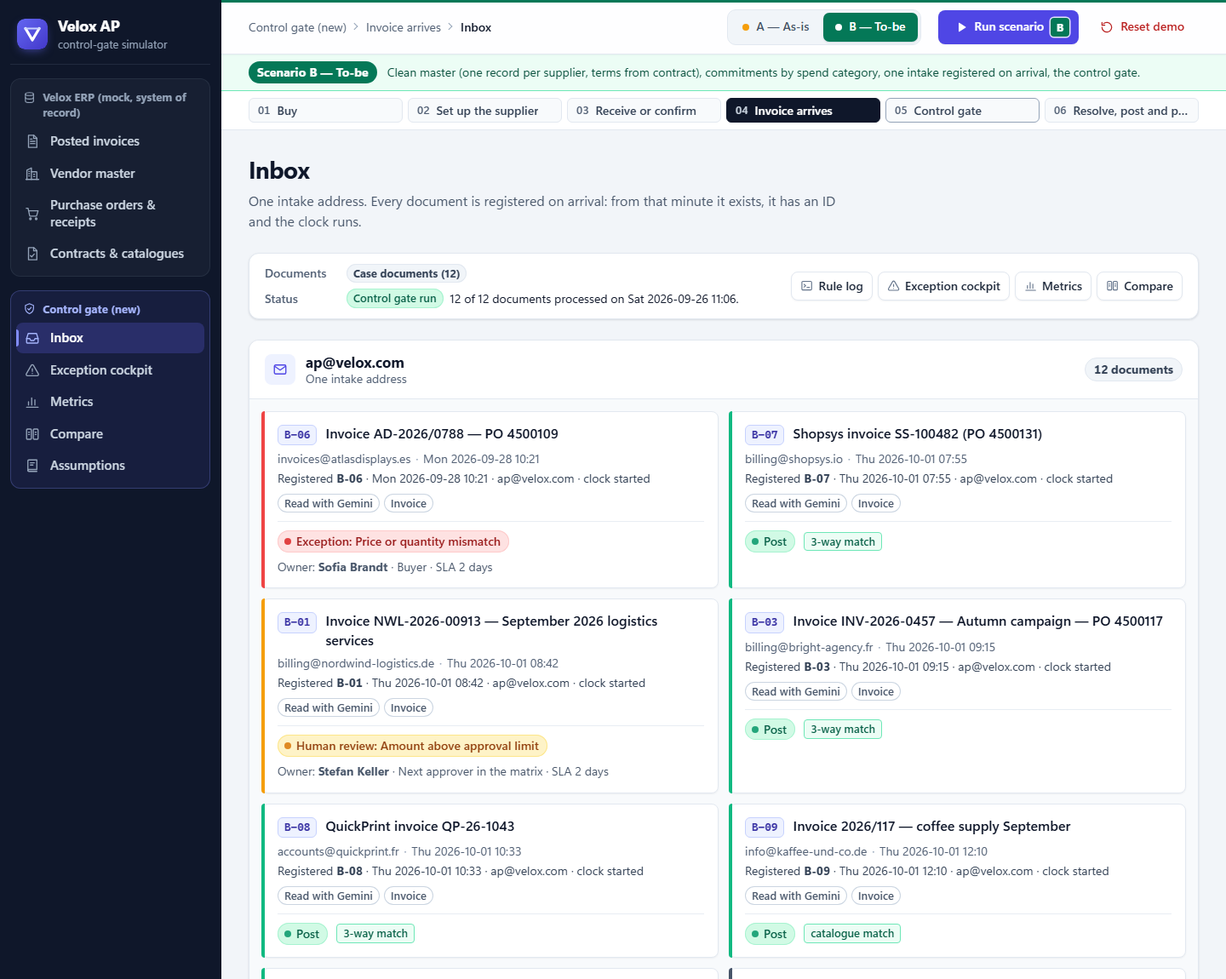
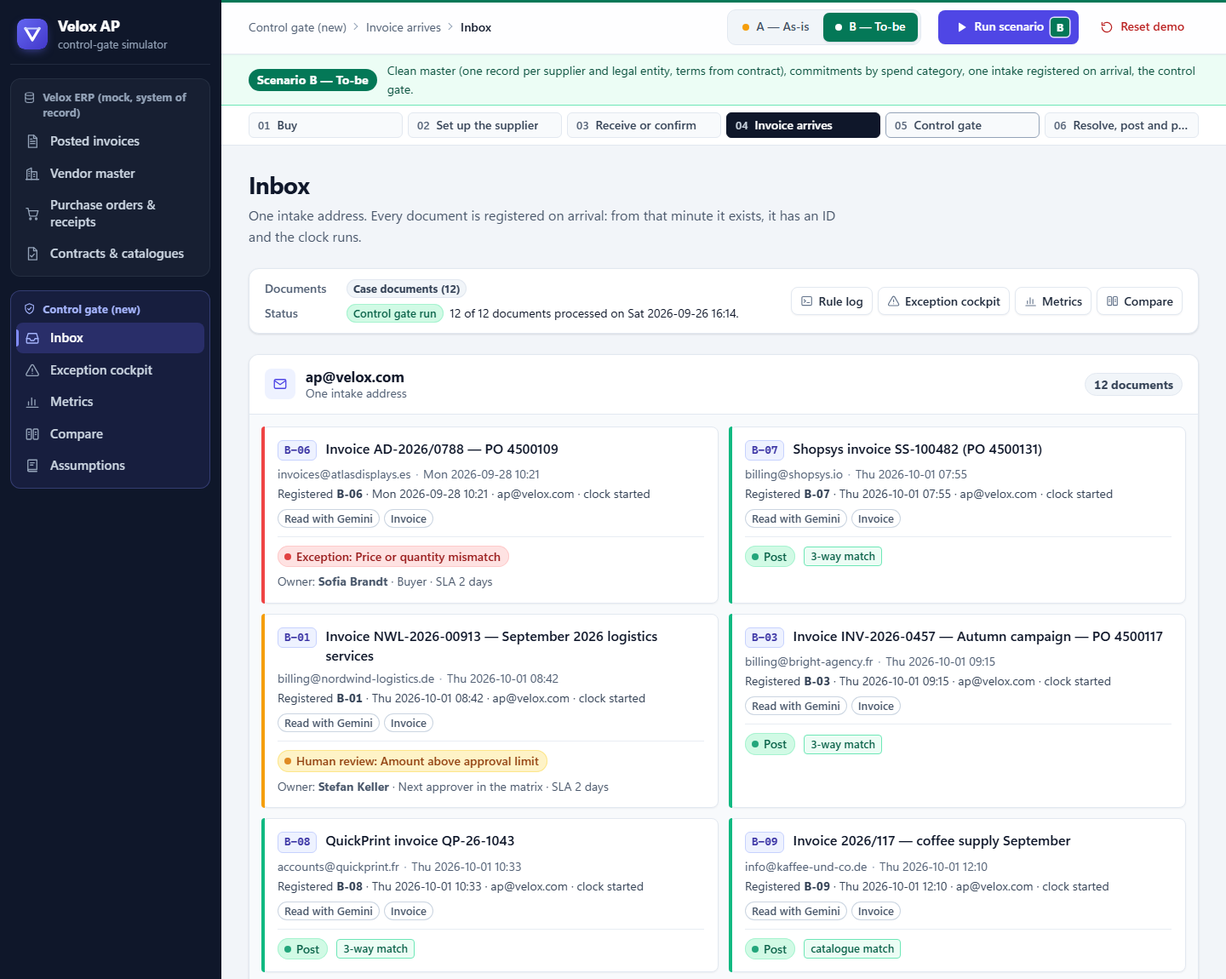
Demo script: what the demo shows and does not show; live-demo fixes
- DEMO.md: a framing line, a table from each demo moment to the root causes and slides of the deck,
  what the demo does not show, and answers to the questions a panel is likely to ask. Checked by an
  adversarial review against the deck text and the app; its corrections are applied (first-pass
  misses are B-02, B-05 and B-06; cycle-time and as-is answers; the agent is phase 3).
- Invoice page: before Run the control gate, a document whose reading is saved says so instead of
  asking for an API key. The draft box hides "Draft again" without a key, so a cached draft is never
  replaced by an error in front of an audience.
- Scenario banner: "one record per supplier and legal entity", matching the 1.17 on screen.
- CHECKPOINT_V2 and ASSUMPTIONS: the same corrections, the two deliberate differences from A6
  (inactive records counted, cycle time from arrival) and the A5 differences; the AI quick-fix is
  slide 6. Screenshots retaken.

Tests: 1417 passed.

diff --git a/app/templates/_draft.html b/app/templates/_draft.html
@@ -5,11 +5,13 @@
   <p class="draft-label">{{ draft_label }}</p>
   <blockquote class="draft-text">{{ draft.text }}</blockquote>
   <p class="draft-meta muted small"><code>{{ draft.model }}</code> · {{ 'from cache' if draft.from_cache else 'new draft' }}</p>
+  {% if can_redraft %}
   <form method="post" action="/invoice/{{ doc.doc_id }}/draft?force=1"
         hx-post="/invoice/{{ doc.doc_id }}/draft?force=1" hx-target="#draft-box" hx-swap="outerHTML"
         hx-disabled-elt="find button">
     <button type="submit" class="secondary small-button">{{ ic.icon('sparkle') }}Draft again</button>
   </form>
+  {% endif %}
   {% else %}
   <p class="flash flash-warn draft-unavailable" role="status"><span><strong>No draft.</strong> {{ draft_error }}</span></p>
   <form method="post" action="/invoice/{{ doc.doc_id }}/draft"

diff --git a/app/main.py b/app/main.py
@@ -55,8 +55,8 @@ SCENARIO_COOKIE = "scenario"
 FLASH_COOKIE = "flash"
 SCENARIO_SUMMARY = {
     "asis": "Duplicate vendor records, no PO discipline, two mailboxes, no control gate.",
-    "tobe": "Clean master (one record per supplier, terms from contract), commitments by spend category, one intake "
-            "registered on arrival, the control gate.",
+    "tobe": "Clean master (one record per supplier and legal entity, terms from contract), commitments by spend "
+            "category, one intake registered on arrival, the control gate.",
 }
 
 # Left navigation: two visibly separate groups (brief section 11). The split is the architecture
@@ -895,6 +895,8 @@ def no_extraction_reason(doc: Optional[InboundDocument] = None) -> str:
                 "text shown on this page.")
     if doc is not None and doc.scenario == "asis":
         return "Processing this document keys its fields (scenario A has no model: AP types them)."
+    if doc is not None and reading_saved(doc):  # the demo's next email: its reading is in the cache already
+        return "Run the control gate: it reads the document first, from the saved reading (no model call now)."
     if config.EXTRACTOR == "fixture":
         return "Fixture mode is on (EXTRACTOR=fixture) and there is no ground-truth fixture for this PDF."
     if not config.gemini_configured():
@@ -903,6 +905,15 @@ def no_extraction_reason(doc: Optional[InboundDocument] = None) -> str:
                 f"{config.gemini_missing_setting()} must be set in .env (then restart the app, or run make extract).")
     return ("Running the control gate reads it first: from the extraction cache when this file was read before, "
             "else with one Gemini API call.")
+
+
+def reading_saved(doc: InboundDocument) -> bool:
+    """A reading of this file exists without calling the API: its cached Gemini reading, or (EXTRACTOR=fixture) its
+    ground-truth fixture."""
+    if config.EXTRACTOR == "fixture":
+        path = resolve_document_file(doc.file_path)
+        return path is not None and extract.fixture_path(path).exists()
+    return bool(doc.file_hash) and extract.cache_path(doc.file_hash).exists()
 
 
 def is_ubl_extraction(ex: Any) -> bool:
@@ -1128,7 +1139,9 @@ def draft_message(doc_id: str, request: Request, force: int = 0,
         error = f"The draft could not be produced: {exc}"
     if request.headers.get("HX-Request"):
         return templates.TemplateResponse(request, "_draft.html", {
-            "doc": doc, "draft": draft, "draft_error": error, "draft_label": drafts.DRAFT_LABEL})
+            "doc": doc, "draft": draft, "draft_error": error, "draft_label": drafts.DRAFT_LABEL,
+            # a new draft needs the API: without a key, "Draft again" would only replace the cached text with an error
+            "can_redraft": config.gemini_configured()})
     if draft:
         return redirect(f"/invoice/{doc_id}", ("info", f"{drafts.DRAFT_LABEL}: {draft.text}"))
     return redirect(f"/invoice/{doc_id}", ("warn", f"No draft: {error}"))

diff --git a/tests/test_app.py b/tests/test_app.py
@@ -728,6 +728,9 @@ def test_receive_next_email_registers_without_running_the_gate(client, session):
     # its page offers the gate; running it reads the cache (or fixture) only and shows the outcome
     page = client.get(f"/invoice/{doc_id}").text
     assert "Run the control gate</button>" in page and "Not read yet." in page
+    # its reading is saved: the page never talks about API keys in front of the audience
+    assert "it reads the document first, from the saved reading (no model call now)" in page
+    assert "GEMINI_API_KEY" not in page
     r = client.post(f"/invoice/{doc_id}/rerun")
     assert r.status_code == 200 and r.url.path == f"/invoice/{doc_id}"
     text = squash(page_text(r.text))
@@ -1665,9 +1668,12 @@ def test_draft_text_is_shown_under_the_exact_label(client, monkeypatch):
     monkeypatch.setattr(drafts, "get_draft", fake_draft)
     r = client.post("/invoice/B-06/draft?force=1", headers={"HX-Request": "true"})
     assert f'<p class="draft-label">{drafts.DRAFT_LABEL}</p>' in r.text
+    assert "Draft again" not in r.text  # no API key: a new draft would only replace the cached text with an error
+    use_gemini(monkeypatch)
+    assert "Draft again</button>" in client.post("/invoice/B-06/draft", headers={"HX-Request": "true"}).text
     assert drafts.DRAFT_LABEL == "Draft by Gemini — reviewed by AP"
     assert "Sofia, invoice AD-2026/0788 is 300.00 EUR above PO 4500109." in r.text and "from cache" in r.text
-    assert calls == [("B-06", True)]
+    assert calls == [("B-06", True), ("B-06", False)]
 
 
 def test_scenario_query_parameter_sets_the_cookie(client):

diff --git a/docs/DEMO.md b/docs/DEMO.md
@@ -2,6 +2,30 @@
 
 **The message:** the machine resolves what arrives clean, people resolve what needs judgement. Gemini reads and classifies; deterministic rules decide; every exception has a type, a named owner and an SLA.
 
+## What this demo shows (and what it does not)
+
+**How to frame it** (about 15 seconds, at the move from slide 10, inside the first block): *"Not a forecast and not a product: the target process of slide 9 on twelve supplier documents, today (A) and redesigned (B). You will see where each root cause bites, and what the foundations and the gate each change."*
+
+Scenario B assumes the phase-1 foundations are in place (slide 11): one intake address with registration on arrival, commitments by spend category, named exception owners, and a clean vendor master with one record per supplier and legal entity (1.17 against the target of 1.2 or less; phase 1 itself cleans the top 200 suppliers first). The gate itself is phase 2 (slide 11). The table and the questions below are for preparation, not to read aloud during the four minutes.
+
+| Demo moment | What the audience sees | Where it sits in the deck |
+|---|---|---|
+| 1. Receive next email | "Registered B-05 · … · clock started" on the one intake address | **RC3** · several mailboxes, nothing registered on arrival (slide 5); stage 04 of slide 9. In A this invoice (A-05) arrives at ap@ and is registered only when AP opens the mailbox the next business day. The two documents sent to the store mailbox (A-02, A-09) wait seven business days |
+| 2. Gemini output | Fields, a confidence per field and the document type; nothing is decided | The lesson of the **AI quick-fix** (slide 6): *"The AI reads and classifies. Rules decide."* Part of the "Understand" layer of slide 10: the same model (Gemini 3.8 Flash) and the same output, read through the Gemini API with a key rather than on the Agent Platform |
+| 2. Rule log: Supplier (tax ID) | The supplier is found by tax ID, at supplier level, not by name | **RC1** · vendor master with no owner (slide 5). FitOut has a single record in A too, so RC1 shows later: in the cockpit B-02 is blocked; in Compare, A-02 (the reminder) is found by name on the duplicate record V-000117 and posted a second time ("duplicate posting"), the duplicate payment of slide 7 in the making. Accounts per supplier 2.33 → 1.17 |
+| 2. Rule log: Commitment → Exception | The PO exists but no service confirmation is recorded | **RC2** · purchases with nothing to match against (slide 5). The fix: a commitment before the invoice, by spend category, with services confirmed by the requester (stages 01 and 03 of slide 9) |
+| 2. Outcome | A typed exception, a named owner (receiver / requester) and an SLA; optionally a two-sentence draft by Gemini, reviewed by AP; nothing is sent | **RC4** · exceptions by email, no owner, no clock (slide 5). The fix: every exception has a type, an owner and an SLA (slide 5; taxonomy in A3). The draft stands in for "the agent drafts the message" (slide 9, stage 06); here it is one Gemini call. The agent itself (slide 10, "Act") is phase 3 (slide 11; E5 in A8) and is not built |
+| 3. Exception cockpit | 3 open, 1 past SLA; a duplicate blocked before posting; a human review above the approval limit | **RC4**: the exception cockpit that the weekly review of exceptions and SLAs works from (slides 5 and 9); the review itself is governance. Two controls of slide 7 are on this page: the duplicate check at supplier level (B-02 blocked before posting) and an approval limit with a named next approver (B-01; one simulated CHF 25,000 limit per entity, not the full delegation matrix). The other two show in Compare: credit notes linked to their invoice (A-04 "unapplied credit", B-04 "credit note linked") and terms from the master (A-01, A-06 "terms paid early", A-02 "terms paid late") |
+| 4. Compare | The four metrics of slide 11, A vs B | Slide 11, defined as in A6 with three differences named in each tooltip: card / catalogue counts as a commitment; inactive records are counted, as in the case's 2,800 ÷ 1,200 (A6 writes "active records", which would give 2.00 in A); cycle time runs from arrival, so A includes the wait before registration. It also illustrates the split of slide 6: of the 11 documents that end up posted, 8 go through with no human touch (the credit note included) and 3 go to a named owner; the reminder is blocked. The split follows from how the twelve were chosen; it is not a measurement |
+
+**RC5** (governance) is not software. The demo shows only what governance would review: the four metrics of slide 11, with today's process (A) as the reference; the real baseline is frozen in phase 0 from real data. The owners RC5 names (a P2P process owner and a vendor master owner) and the monthly CFO review are not in the demo.
+
+**What the demo does not show** (it is in the deck):
+- Governance and change: the P2P process owner and the vendor master owner, the weekly and monthly reviews, policy resistance in stores (slides 5, 9 and 11; risk register A7).
+- The roadmap and its entry criteria (slide 11, pipeline A8), the controls matrix and segregation of duties (slide 7, A4), the business case built in phase 0 (slide 11).
+- The real architecture (slide 10, A5): the Gmail intake, Gemini on the Agent Platform inside the trust layer (EU Data Boundary, customer-managed keys, audit logs), Document AI for poor scans, Model Armor (the screening step here is simulated), the Gemini Enterprise agent, BigQuery and Looker, and the integration with the real ERP. Here the ERP is a set of read-only mock tables.
+- A live model call and real books: the Gemini readings were made in advance with gemini-3.8-flash and are replayed from the cache. "Post" is the gate's decision written to a mock table, with no ledger and no payment run behind it.
+
 ## Before the session (2 minutes)
 
 1. **Cache-only mode.** In `.env`, leave `GEMINI_API_KEY` blank. The app then reads the committed Gemini readings in `data/cache/` and never calls the network. (With `EXTRACTOR=fixture` it reads ground-truth test data instead, and every page says so.) The app reads `.env` only when it starts.
@@ -11,14 +35,14 @@
 
 ## 0:00 – 0:45 · 1. Inbox: registered on arrival
 
-- Press **Receive next email**. A new card appears on the one intake address: "**Registered B-05 · Fri 2026-10-02 14:02 · ap@velox.com · clock started**".
-- Say: *"From this minute the invoice exists and the clock runs."* In scenario A the same invoice would wait in a mailbox until AP opens it; in the store mailbox, about seven business days.
+- Frame the demo (above), then press **Receive next email**. A new card appears on the one intake address: "**Registered B-05 · Fri 2026-10-02 14:02 · ap@velox.com · clock started**".
+- Say: *"From this minute the invoice exists and the clock runs."* In scenario A this invoice waits in ap@ until AP opens the mailbox the next business day; an invoice sent to a store mailbox waits about seven.
 
 ## 0:45 – 2:00 · 2. One invoice through the gate
 
-- Open **B-05** (a milestone invoice for a store fit-out).
-- **Gemini output**: the fields with a confidence per field and the document type (Invoice), and one provenance line, "Read by gemini-3.8-flash (cached)". Say: *"Gemini reads and classifies. It never decides."*
-- Press **Run the control gate**. Read the **rule log** line by line: Registered on arrival → Screened → Read with Gemini → Confidence → Document type → Supplier (tax ID) → Legal entity → Duplicate → **Commitment → Exception**: the PO exists but no service confirmation is recorded.
+- Open **B-05** (the FitOut milestone invoice of the worked example in A5) and press **Run the control gate**. It reads B-05 from the cache and fills the **Gemini output** panel and the rule log together; before that, the panel says "Not read yet".
+- **Gemini output**: the fields with a confidence per field, the document type (Invoice) and one provenance line, "Read by gemini-3.8-flash (cached)". Say: *"Gemini reads and classifies. It never decides."*
+- Read the **rule log** line by line: Registered on arrival → Screened → Read with Gemini → Confidence → Document type → Supplier (tax ID) → Legal entity → Duplicate → **Commitment → Exception**: the PO exists but no service confirmation is recorded.
 - The **outcome**: *Exception: PO exists, no receipt or confirmation* · owner **Jonas Weber · Receiver / requester** (store development manager) · **SLA 2 business days**, with the due date. Optional: **Draft message to owner** shows two sentences labelled "Draft by Gemini — reviewed by AP"; nothing is sent.
 
 ## 2:00 – 2:45 · 3. Exception cockpit
@@ -29,7 +53,7 @@
 
 ## 2:45 – 4:00 · 4. Comparison A vs B
 
-- Open **Compare**: the same twelve invoices, the four metrics side by side (simulated durations):
+- Open **Compare**: the same twelve documents, the four metrics side by side (simulated durations):
   - **First-pass match rate** 27.3% → 72.7%
   - **Accounts per supplier** 2.33 → 1.17
   - **Touchless rate** 0% → 72.7%
@@ -37,11 +61,24 @@
   - and the small indicator **Registered same day** 0% → 100%.
 - Close with the line: *"The machine resolves what arrives clean, people resolve what needs judgement."*
 
+## Questions to prepare
+
+- *"You designed the invoices to get this result."* Yes, on purpose. Three are clean PO invoices that both processes post. Each of the others carries one mechanism behind a symptom of the case: a reminder that reproduces an invoice, a credit note on another vendor record, a posting to the wrong legal entity, a PO never keyed, recurring spend with no PO, a store mailbox. In B they trigger four of the twelve exception types of A3; the other eight are covered by a second test set and the unit tests. The point is not the percentages: every outcome is explained by one line of the rule log.
+- *"Accounts per supplier 1.17: you assumed it. How much of B is the gate?"* Yes. B starts from the clean master and the commitments that phase 1 delivers, so that tile shows the target and how it is measured, not something the gate achieves. Most of the first-pass gain is also phase 1: in A, three POs were never keyed (documents 5, 6 and 11), there is no catalogue, and AP matches POs only. What the gate itself changes is touchless and cycle time. That is the deck's order: fix the foundations, then automate (slide 2).
+- *"First-pass match is 72.7%; the target is 90%."* Three of the eleven are built to miss the first pass: the reminder that reproduces B-01 (blocked as a duplicate, but still counted as an invoice received), B-05 with no service confirmation and B-06 with a price variance. B-01 matches its contract; it goes to a person only because it is above the approval limit. The 90% is the month-24 target over the whole invoice population (slide 11).
+- *"Cycle time 0 days; the target is 3."* In the simulation a clean invoice costs 0 days once it passes the gate, and 8 of the 11 documents that end up posted are clean, so the median is 0 by construction. In practice, ERP posting, the approval workflow and batch timing add time. The 3 days of slide 11 is the month-24 target (5 at month 12), set against benchmarks (A6: APQC median 5.0 calendar days, top performers 2.8), not read from this simulation. What the simulation does show is the tail: an exception costs its SLA (2 days for B-01 and B-05), and B-06, resolved past its SLA, takes 5.
+- *"And the 26 days of the case?"* The as-is median is 15 simulated days, for two reasons: four of the twelve are posted by AP in 2 days (three clean PO invoices and the credit note), and six of the eight email-loop documents arrive at ap@, so they skip the seven days in a store mailbox (15–21 days). The durations are calibrated on the worst path: a non-PO invoice sent to a store takes 25 days on average (the app's Assumptions page, section 6); here A-09 takes 27.
+- *"Is your as-is representative?"* Not of the mix: 8 of 12 documents go to the email loop against the case's 45%, because the twelve were chosen so that each mechanism appears once. Phase 0 measures the real mix. The durations per path are calibrated on the case.
+- *"B-05 is 48,000 EUR: why is it not above the approval limit?"* It is (about CHF 45,120), but the gate stops at the first rule that fails, so the approval limit is not checked yet. When Jonas confirms the service, the gate runs again, as in A5 ("Confirmed → receipt recorded in the ERP → gate re-runs"), and the amount then sends it to the next approver. The simulated 2 days count only the confirmation.
+- *"Every confidence reads 100%: what does it mean?"* It is the model's own score in the structured output, not a calibrated probability; the cached readings of these PDFs are all 0.95 or higher. That is why rules decide, and why the deck adds Document AI for poor scans (slide 10) and a golden test set (A7).
+- *"This is the A5 invoice, but it does not match A5."* Three differences, for simplicity: A5 shows confidence 0.97, the demo 100% (the real reading); A5 has the agent send a Chat message with a confirm button, the demo shows a draft that is not sent (the agent is phase 3); A5 counts 1.5 days, the demo charges the full SLA of 2.
+- *"Are you rebuilding the ERP's controls?"* No. The gate checks on arrival so that every problem gets a type and an owner before anything is posted (slide 10 lists the rules of the gate). The ERP keeps matching, the duplicate check and the approval workflow switched on as the system-of-record control (slide 8; Q2 in A8).
+- *"Why Swiss francs?"* Velox's group limits (approval limit, catalogue limit) are set in the group currency. Invoices keep their own currency; for the limit checks only, amounts are converted at fixed simulated rates (Assumptions page, sections 1 and 8).
+- *"Where do these numbers come from?"* The Assumptions page lists every simulated number with its reason, including the durations and the approval limit.
+- *"Why does the reminder not get paid twice?"* The duplicate rule runs at supplier level on invoice number, or on amount and date. In A the reminder lands on a second vendor record and is posted again.
+- *"Is this an ERP?"* No: read-only mock tables; the ERP stays the system of record. See the footer.
+
 ## Notes
 
 - **Receive the next email before Compare.** Until B-05 arrives, B shows 11 documents (first-pass match and touchless 80.0%); after *Run the control gate* on B-05 it shows the twelve and the values above. That is expected.
-- Nothing depends on the network: Reset demo, Run scenario and Run the control gate read the cache or the fixtures only. **Reset demo** restarts the demo at any time.
-- If asked:
-  - *"Where do these numbers come from?"* The Assumptions page lists every simulated number with its reason, including the durations and the approval limit.
-  - *"Why does the reminder not get paid twice?"* The duplicate rule runs at supplier level on invoice number or on amount and date; in A the reminder lands on a second vendor record and is posted again.
-  - *"Is this an ERP?"* No: read-only mock tables, the ERP stays the system of record; see the footer.
+- Nothing depends on the network: Reset demo, Run scenario and Run the control gate read the cache or the fixtures only. **Reset demo** restarts the demo at any time. Without an API key the draft box shows the cached draft and no "Draft again" button.

diff --git a/docs/CHECKPOINT_V2.md b/docs/CHECKPOINT_V2.md
@@ -36,9 +36,11 @@ Before B-05 is received, B shows 11 documents: first-pass match and touchless 80
 ## Where the UI wording differs from the deck
 
 - The metric tile says **"Accounts per supplier"** (brief v2 section 1); slide 11 prints "Vendor master: accounts per supplier".
-- **Cycle time**: A's median is 15 simulated business days, not the case's 26, because four of the twelve (three clean PO invoices and the credit note) are posted by AP in 2 days; a non-PO invoice sent to a store takes 25 (Assumptions, section 6). B's median is 0 because 8 of 11 posted invoices are posted the day they arrive; the deck's target of 3 days is a steady-state figure.
-- **First-pass match in B** is 72.7%, below the deck's 90% target: three of the eleven invoices are designed to need a person (B-01, B-05, B-06). Card / catalogue counts as a commitment (brief v2 section 1); deck A6 names PO and contract.
+- **Cycle time**: A's median is 15 simulated business days, not the case's 26: four of the twelve (three clean PO invoices and the credit note) are posted by AP in 2 days, and six of the eight email-loop documents arrive at ap@ and skip the seven days in a store mailbox. A non-PO invoice sent to a store takes 25 on average (Assumptions, section 6); A-09 takes 27. B's median is 0 by construction: a clean invoice costs 0 days once it passes the gate, and 8 of the 11 documents that end up posted are clean. The deck's 3 days is the month-24 target set against benchmarks (A6), not a figure the simulation can reproduce.
+- **First-pass match in B** is 72.7%, below the deck's 90% target: three of the eleven miss the first pass by design (B-02, the reminder, blocked but still counted as an invoice received; B-05, no service confirmation; B-06, price variance). B-01 matches its contract and goes to a person only for the approval limit. Card / catalogue counts as a commitment (brief v2 section 1); deck A6 names PO and contract.
+- **Metric definitions against A6**: A6 defines vendor master quality on **active** records; the demo counts inactive records too, as the case's 2,800 ÷ 1,200 and slide 11's baseline of 2.33 do (active only, A would be 2.00). A6 runs cycle time from registration; the demo runs it from arrival, so A includes the wait before registration (from registration, A would be 14).
 - **Credit note**: the outcome is Post with the badge "credit note linked"; the outcome card links to the invoice it credits (the badge does not repeat the invoice number).
+- **B-05 and the worked example of A5**: the demo's B-05 is the A5 invoice, with three differences: confidence 100% (the real reading) instead of 0.97; a draft message that is not sent instead of the agent's Chat message with a confirm button (the agent is phase 3); the full SLA of 2 days instead of 1.5. B-05 is also above the approval limit (about CHF 45,120), but the gate stops at the first failed rule, so the limit is checked only when the gate runs again after the confirmation.
 - **Block**: the rule log names AP (Marco Ruiz) as the one who replies to the supplier; SLA "—", no owner task, as in A3.
 - **As-is words**: scenario A has no gate, so it does not use the four outcomes: "Posted by AP", "Email loop — untracked", "Blocked (same account)". Its log is called "Processing log".
 - **Screening** is simulated (`Screened → pass` for every file); the UI does not name Model Armor.

diff --git a/docs/ASSUMPTIONS.md b/docs/ASSUMPTIONS.md
@@ -327,7 +327,8 @@ The four metrics of the deck (slide 11), with the deck's definitions, plus one s
 | Invoice cycle time (business days) | Downstream · automation efficiency | Median simulated business days from arrival (to-be: registration, the same minute) to approved and ready to pay, over the invoices posted; P90 in the tooltip | 15 (P90 21) | 0, same day (P90 2) |
 | Registered same day | Indicator | Documents registered on the day they arrive ÷ documents | 0.0% (0 of 12) | 100.0% (12 of 12) |
 
-- Document 1 counts as a first-pass match in B: its contract matches within the range; the human review it needs is for the approval limit, not for the match.
+- Document 1 counts as a first-pass match in B: its contract matches within the range; the human review it needs is for the approval limit, not for the match. The three that miss the first pass in B are the reminder (document 2, blocked but counted as an invoice received), document 5 (no service confirmation) and document 6 (price variance).
+- Two deliberate differences from the wording of A6: accounts per supplier counts inactive records too, as the case's 2,800 ÷ 1,200 and slide 11's baseline of 2.33 do (A6 writes "active records"; active only, A would be 2.00); and cycle time runs from arrival, so the as-is includes the wait before registration (from registration, A would be 14).
 - **Before the next email is received**, B has 11 documents: first-pass match 80.0% (8 of 10), touchless 80.0% (8 of 10), registered same day 11 of 11. After *Receive next email* and *Run the control gate*, B has 12 and the values above.
 - No other metric is shown. Invoice amounts appear as document data (invoice, PO and contract amounts), never as totals or value figures.
 
@@ -390,5 +391,5 @@ Illustrative, chosen to vary the tax blocks the model has to read; not tax advic
   - **To-be master trimmed to 1.17 records per supplier**: the second records of Shopsys (VDE) and QuickPrint (VDE) and their two background POs were removed; two spelling duplicates were added to the as-is so it keeps 28 records.
   - **One intake address** in to-be; **Reset demo** and **Receive next email** for the four-minute demo.
   - **Group currency CHF** for the limits, with simulated rates.
-  - **Scenario A is AP keying**: the AI quick-fix tool of the case read PDFs from one mailbox and posted them, and was halted after three weeks (deck slide 7). The simulation shows today's process after that: AP types every invoice.
+  - **Scenario A is AP keying**: the AI quick-fix tool of the case read PDFs from one mailbox and posted them, and was halted after three weeks (deck slide 6). The simulation shows today's process after that: AP types every invoice.
 - Phase 3 (Google Cloud, real mailbox) follows after the upload; see [PHASE3.md](PHASE3.md).
